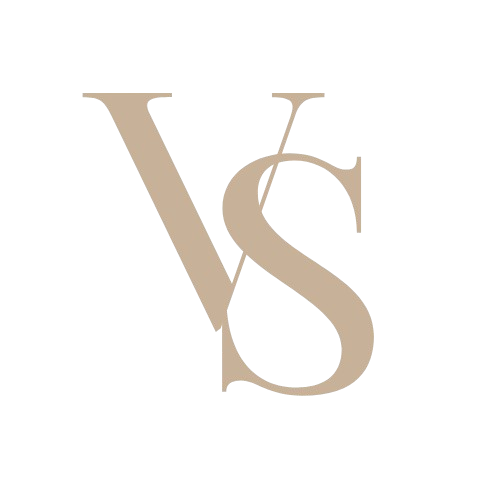
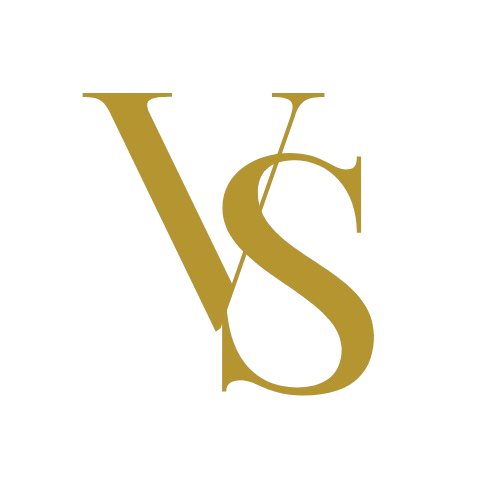
Changed heading

Changed region(s): [[0.15, 0.18, 0.75, 0.81], [0.54, 0.18, 0.66, 0.27]]

diff --git a/CSS/sections/home.css b/CSS/sections/home.css
@@ -23,53 +23,37 @@
     margin-bottom: 0.5rem;
 }
 
-@keyframes neon-border-flicker {
-    0%, 30%, 100% {
-        text-shadow: 
-            0 0 5px #b4952f, 
-            0 0 10px #b4952f, 
-            0 0 20px #b4952f, 
-            0 0 40px #d4b85b, 
-            0 0 80px #d4b85b;
-        opacity: 0.6;
-    }
-    31%, 65% {
-        text-shadow: 
-            0 0 3px #d49639, 
-            0 0 6px #d49639, 
-            0 0 12px #d49639, 
-            0 0 25px #d4b85b, 
-            0 0 50px #d4b85b;
-        opacity: 0.5;
-    }
-    32%, 66% {
-        text-shadow: 
-            0 0 2px #b27417, 
-            0 0 4px #b27417, 
-            0 0 8px #b27417, 
-            0 0 16px #d0b85b, 
-            0 0 32px #d0b85b;
-        opacity: 0.4;
-    }
-    35%, 70% {
-        text-shadow: none;
-        opacity: 0.3;
-    }
+.name {
+    font-family: var(--cursive-text);
+    font-size: 6rem;
+
+    color: #fff;
+    text-shadow:
+        0 0 7px #fff,
+        0 0 10px #fff,
+        0 0 21px #fff,
+        0 0 42px #b4952f,
+        0 0 82px #b4952f,
+        0 0 92px #b4952f,
+        0 0 102px #b4952f;
+
+    animation: flicker 5s infinite;
 }
 
-.name {
-    font-size: 4rem;
-    font-weight: bold;
-    color: transparent;
-    -webkit-text-stroke: 2px #b4952f;
-    text-shadow: 
-        0 0 5px #b4952f, 
-        0 0 10px #b4952f, 
-        0 0 20px #b4952f, 
-        0 0 40px #d4b85b, 
-        0 0 80px #d4b85b;
-    margin-bottom: 1rem;
-    animation: neon-border-flicker 3s infinite alternate;
+@keyframes flicker {
+    0%, 18%, 22%, 25%, 53%, 57%, 100% {
+        text-shadow:
+            0 0 4px #fff,
+            0 0 11px #fff,
+            0 0 19px #fff,
+            0 0 40px #b4952f,
+            0 0 80px #b4952f,
+            0 0 90px #b4952f;
+    }
+
+    20%, 24%, 55% {
+        text-shadow: none;
+    }
 }
 
 .role {
@@ -131,5 +115,7 @@
 }
 
 @keyframes blink {
-    50% { opacity: 0; }
+    50% {
+        opacity: 0;
+    }
 }

diff --git a/CSS/styles.css b/CSS/styles.css
@@ -23,6 +23,7 @@
     --bold-text: BoldFont, sans-serif;
     --highlight-color: #3a3d5c;
     --primary-color: #333333;
+    --heading-color: #b4952f;
     --accent-color: #dfab00;
     --text-color: #f5f5f5;
     --background-color: #121212;
@@ -60,7 +61,7 @@ body::-webkit-scrollbar {
 .section-title {
     font-family: var(--bold-text);
     font-size: 5rem;
-    color: var(--primary-color);
+    color: var(--heading-color);
     text-align: center;
     margin-bottom: 2rem;
     position: relative;
@@ -71,6 +72,6 @@ body::-webkit-scrollbar {
     display: block;
     width: 50%;
     height: 2px;
-    background-color: var(--primary-color);
+    background-color: var(--heading-color);
     margin: 0.5rem auto 0;
 }
